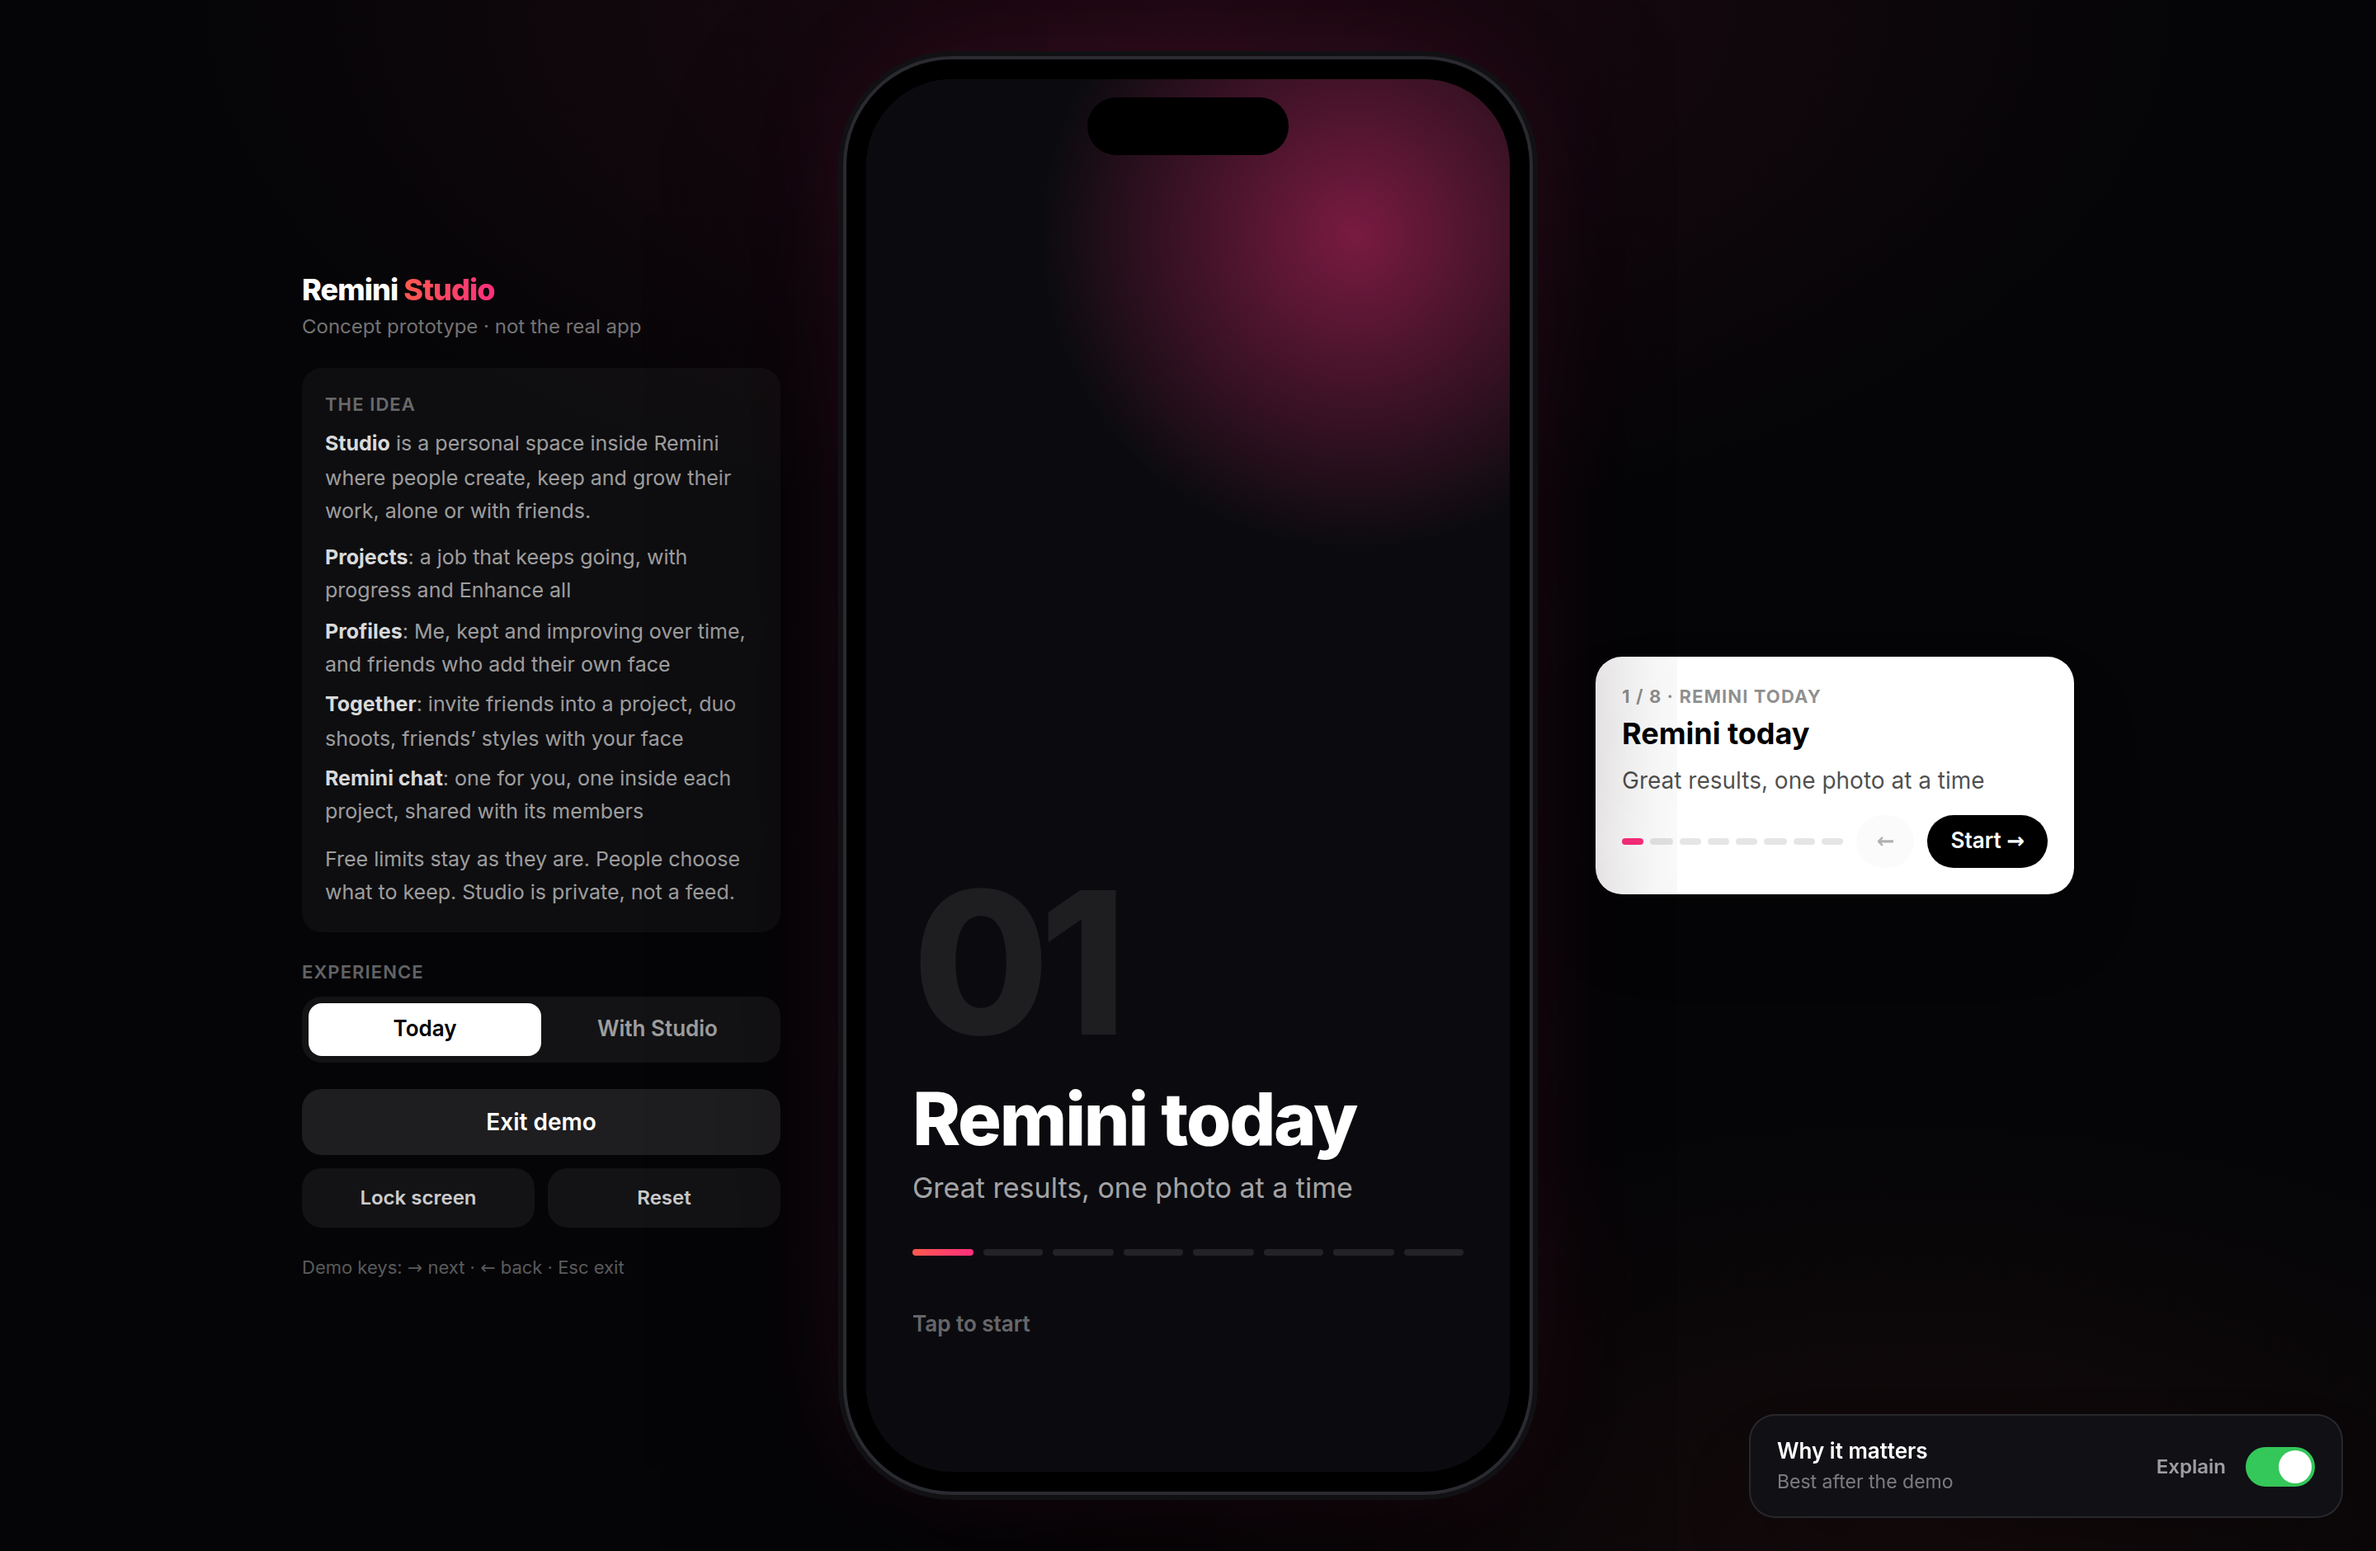
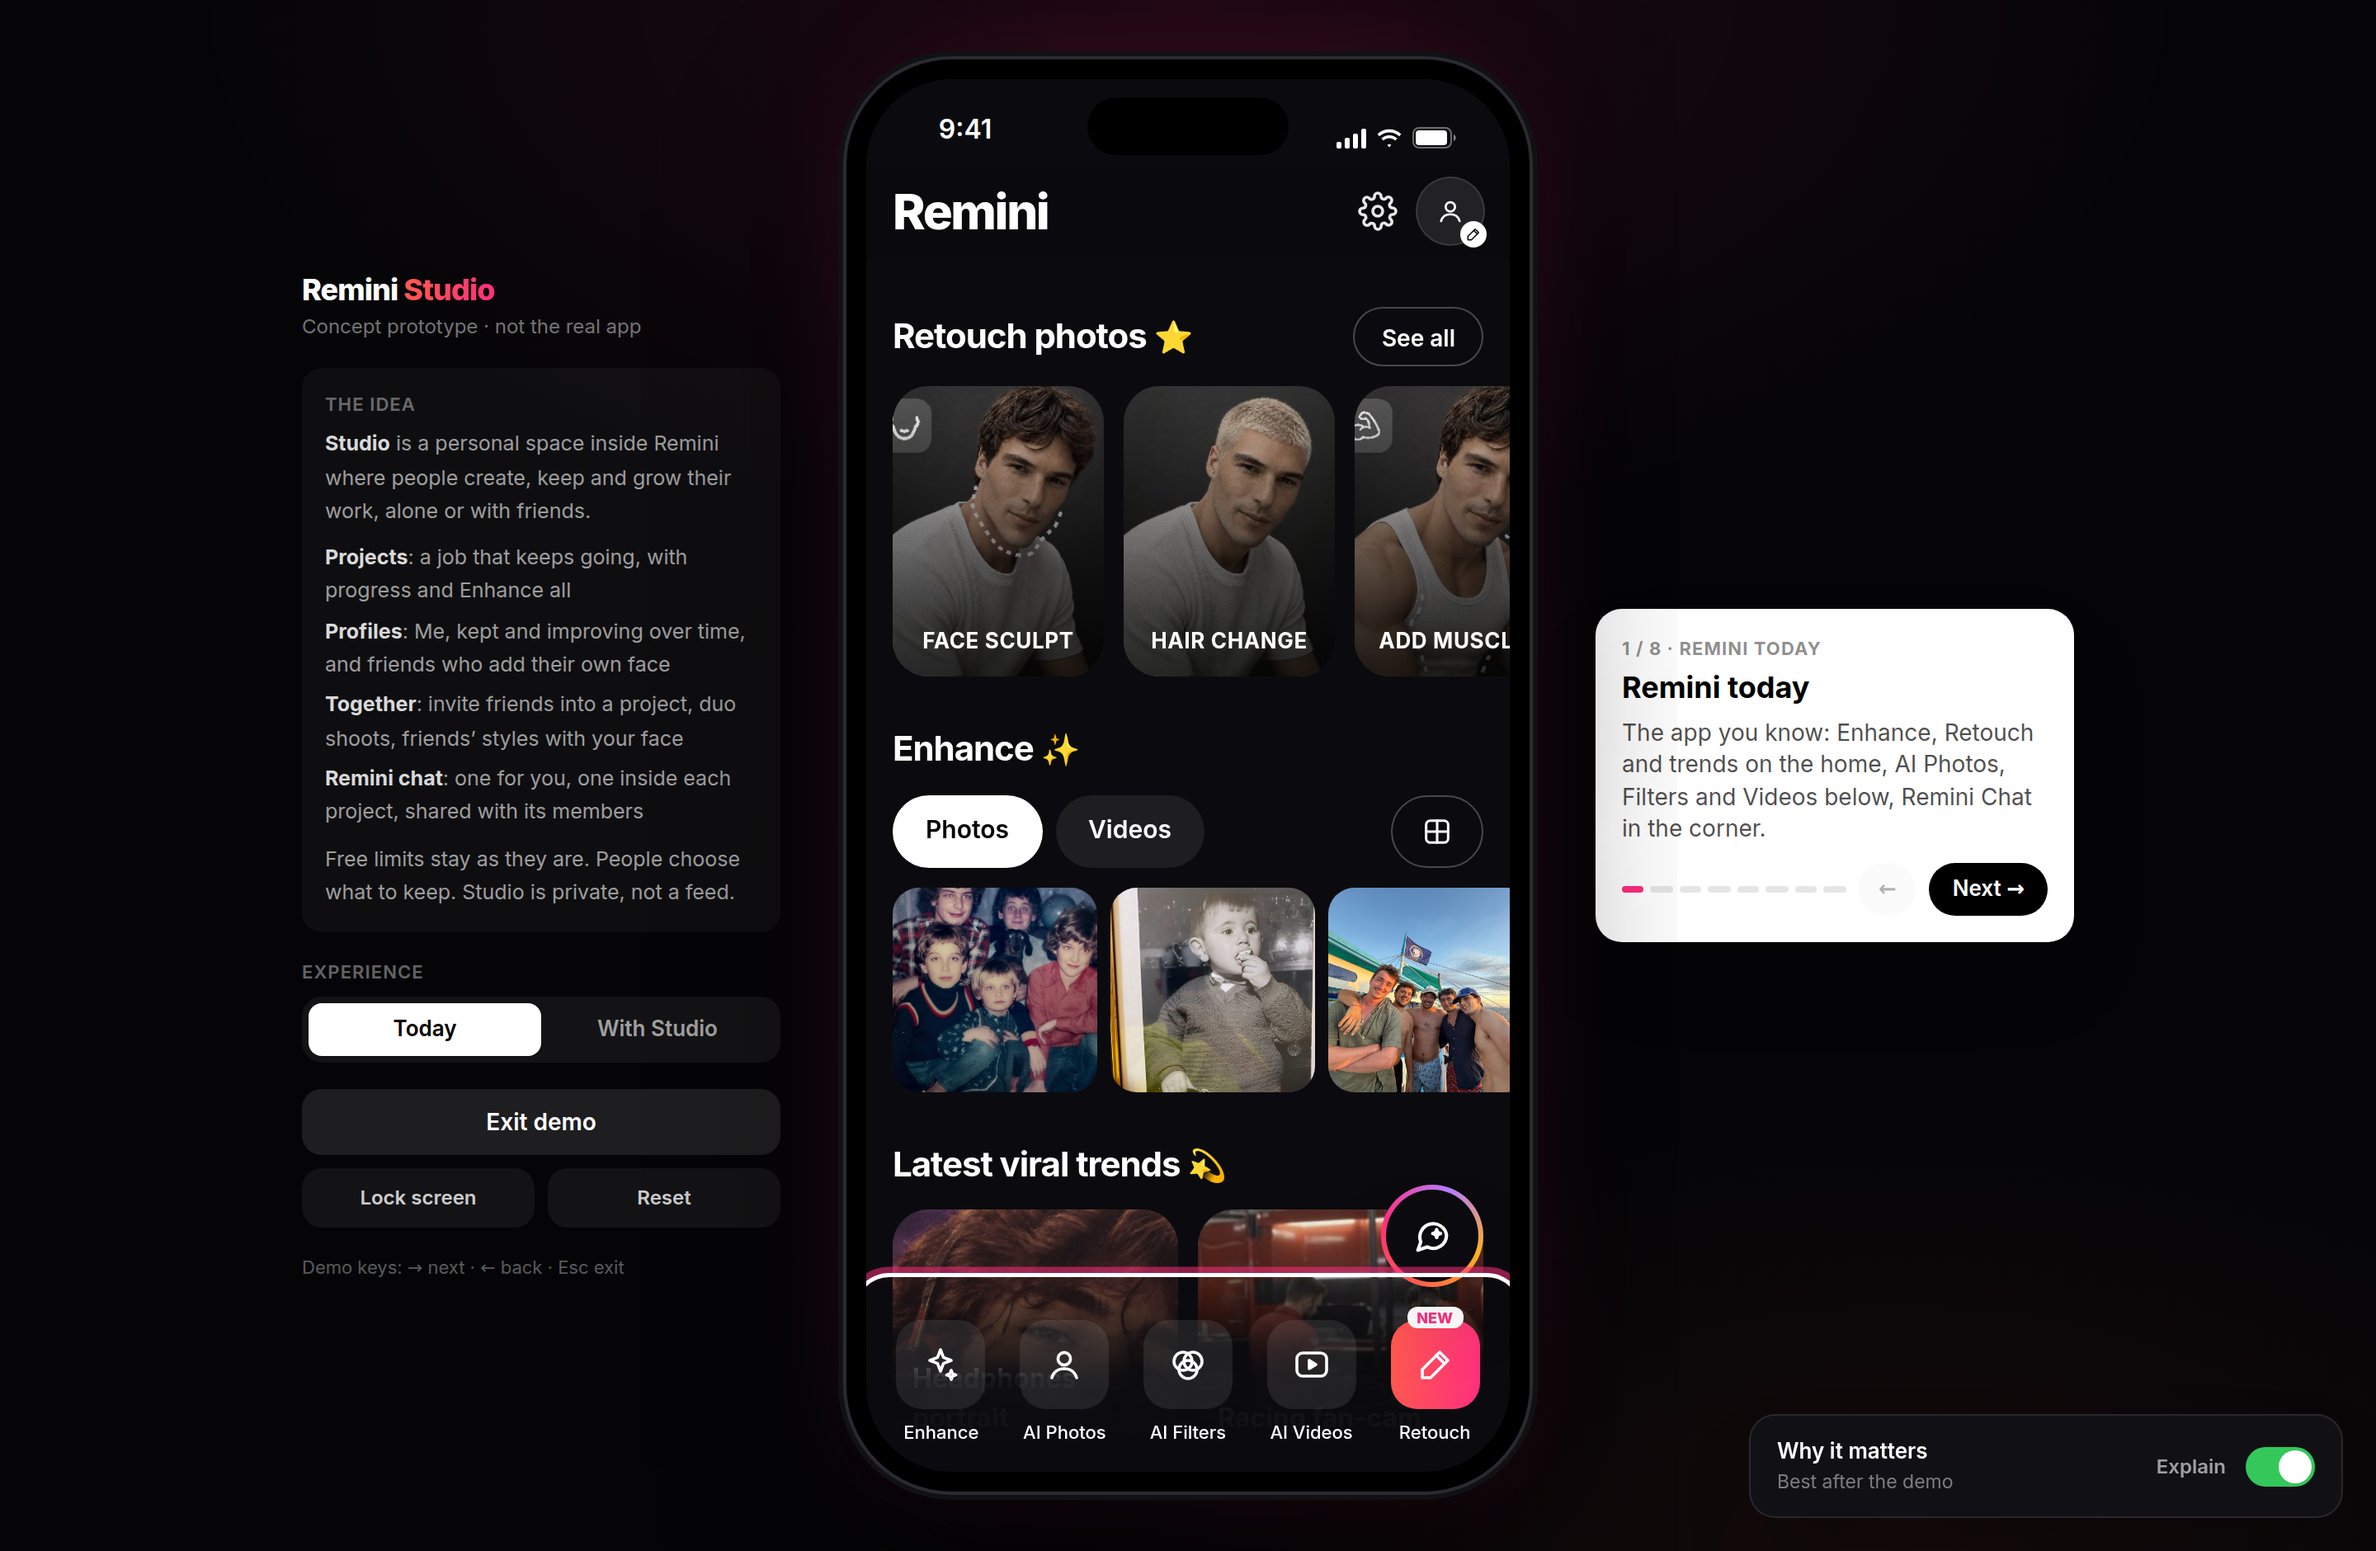
Cleaner demo transitions: chapter cards only for Projects, Profiles and Together
- Cards without numbers, only for the three pillars
- Demo jumps fade in instead of sliding
- Highlight ring waits for the screen to settle, scrolls early, and leaves instantly
- No ring while a chapter card is up

Claude-Session: https://claude.ai/code/session_016rhZVuvannS9NXSxxpYwsv

Changed region(s): [[0.375, 0.0309, 0.875, 0.9255]]

diff --git a/src/components/Overlays.tsx b/src/components/Overlays.tsx
@@ -99,22 +99,25 @@ export function Toast() {
   );
 }
 
-/** Pulsing ring around the element marked `data-demo=<target>`, used by the guided demo. */
+/**
+ * Pulsing ring around the element marked `data-demo=<target>`, used by the guided demo.
+ * It waits for the screen to settle (layers fading in, sheets sliding up) before it
+ * appears, then only follows real movement, so it never flies across the phone.
+ */
 export function Spotlight({ target, root }: { target: string | null; root: RefObject<HTMLDivElement> }) {
   const [rect, setRect] = useState<{ x: number; y: number; w: number; h: number } | null>(null);
 
   useLayoutEffect(() => {
-    if (!target) {
-      setRect(null);
-      return;
-    }
+    setRect(null);
+    if (!target) return;
     let scrolled = false;
+    let last: { x: number; y: number; w: number; h: number } | null = null;
     const measure = () => {
       const r = root.current;
       // Only elements on the visible screen (hidden stack layers keep theirs mounted).
       const all = Array.from(r?.querySelectorAll<HTMLElement>(`[data-demo="${target}"]`) ?? []).filter((e) => e.getClientRects().length > 0);
       const el = all.length ? all[all.length - 1] : null;
-      if (!r || !el) return setRect(null);
+      if (!r || !el) return;
       if (!scrolled) {
         scrolled = true;
         // Scroll only the app's own scroll containers, never the phone frame.
@@ -128,26 +131,42 @@ export function Spotlight({ target, root }: { target: string | null; root: RefOb
           const d = el.getBoundingClientRect().left - h.getBoundingClientRect().left;
           if (d < 0 || d + el.offsetWidth > h.clientWidth) h.scrollLeft += d - 16;
         }
+        return; // measure after the scroll has applied
       }
       const a = r.getBoundingClientRect();
       const b = el.getBoundingClientRect();
       const scale = a.width / r.offsetWidth || 1;
-      setRect({ x: (b.left - a.left) / scale, y: (b.top - a.top) / scale, w: b.width / scale, h: b.height / scale });
+      const next = { x: (b.left - a.left) / scale, y: (b.top - a.top) / scale, w: b.width / scale, h: b.height / scale };
+      if (last && Math.abs(last.x - next.x) < 2 && Math.abs(last.y - next.y) < 2 && Math.abs(last.w - next.w) < 2 && Math.abs(last.h - next.h) < 2) return;
+      last = next;
+      setRect(next);
     };
-    measure();
-    const t = window.setInterval(measure, 150);
-    return () => clearInterval(t);
+    // Scroll to the element right away, while the screen is still fading in; show the ring once it has settled.
+    const early = [0, 60, 160].map((ms) => window.setTimeout(() => !scrolled && measure(), ms));
+    let t = 0;
+    const start = window.setTimeout(() => {
+      measure();
+      measure();
+      t = window.setInterval(measure, 200);
+    }, 520);
+    return () => {
+      early.forEach(clearTimeout);
+      clearTimeout(start);
+      clearInterval(t);
+    };
   }, [target, root]);
 
   return (
     <AnimatePresence>
-      {rect && (
+      {rect && target && (
         <motion.div
+          key={target}
           className="pointer-events-none absolute z-[80] rounded-[20px]"
+          style={{ left: rect.x - 6, top: rect.y - 6, width: rect.w + 12, height: rect.h + 12 }}
           initial={{ opacity: 0 }}
-          animate={{ opacity: 1, left: rect.x - 6, top: rect.y - 6, width: rect.w + 12, height: rect.h + 12 }}
-          exit={{ opacity: 0 }}
-          transition={{ type: 'spring', stiffness: 300, damping: 30 }}
+          animate={{ opacity: 1 }}
+          exit={{ opacity: 0, transition: { duration: 0 } }}
+          transition={{ duration: 0.25 }}
         >
           <div className="spot-ring absolute inset-0 rounded-[20px]" />
         </motion.div>

diff --git a/src/App.tsx b/src/App.tsx
@@ -136,7 +136,9 @@ function PhoneContent() {
   );
 }
 
-/** A full-screen chapter card on the phone when the demo enters a new section. It stays until Next, → or a tap. */
+const PILLARS = CHAPTERS.filter((c) => c.card);
+
+/** A full-screen card on the phone when the demo reaches one of Studio's three pillars. It stays until Next, → or a tap. */
 function ChapterCard() {
   const { chapterCard: show, setChapterCard } = useStore();
   const ch = show ? CHAPTERS[show - 1] : null;
@@ -151,21 +153,21 @@ function ChapterCard() {
           initial={{ opacity: 0 }}
           animate={{ opacity: 1 }}
           exit={{ opacity: 0 }}
-          transition={{ duration: 0.3 }}
+          transition={{ duration: 0.35, ease: 'easeOut' }}
         >
           <div className="absolute -right-24 -top-24 h-[380px] w-[380px] rounded-full bg-[radial-gradient(closest-side,rgba(255,46,126,0.45),transparent)]" />
-          <motion.div initial={{ y: 24, opacity: 0 }} animate={{ y: 0, opacity: 1 }} transition={{ delay: 0.05, duration: 0.45 }} className="relative w-full">
-            <div className="text-[120px] font-extrabold leading-none tracking-tighter text-white/[0.08]">{String(show).padStart(2, '0')}</div>
-            {ch.isNew && <span className="rounded-md bg-brand px-2 py-[2px] text-[11px] font-extrabold tracking-wider">NEW WITH STUDIO</span>}
-            <div className="mt-3 text-[44px] font-extrabold leading-[1.02] tracking-tight">{ch.name}</div>
+          <div className="relative w-full">
+            <span className="rounded-md bg-brand px-2 py-[2px] text-[11px] font-extrabold tracking-wider">NEW WITH STUDIO</span>
+            <div className="mt-3 text-[48px] font-extrabold leading-[1.02] tracking-tight">{ch.name}</div>
             <div className="mt-2 text-[17px] leading-snug text-white/65">{ch.tagline}</div>
-            <div className="mt-6 flex gap-1.5">
-              {CHAPTERS.map((_, i) => (
-                <span key={i} className={`h-1 flex-1 rounded-full ${i + 1 < (show ?? 0) ? 'bg-white/40' : i + 1 === show ? 'bg-brand' : 'bg-white/10'}`} />
+            <div className="mt-8 flex gap-4 text-[13px] font-semibold">
+              {PILLARS.map((p) => (
+                <span key={p.name} className={p.name === ch.name ? 'text-white' : 'text-white/30'}>
+                  {p.name}
+                </span>
               ))}
             </div>
-            <div className="mt-8 text-[13px] font-semibold text-white/40">Tap to start</div>
-          </motion.div>
+          </div>
         </motion.button>
       )}
     </AnimatePresence>
@@ -173,7 +175,7 @@ function ChapterCard() {
 }
 
 export function Phone() {
-  const { demo } = useStore();
+  const { demo, chapterCard } = useStore();
   const root = useRef<HTMLDivElement>(null);
   const [scale, setScale] = useState(1);
 
@@ -184,7 +186,8 @@ export function Phone() {
     return () => window.removeEventListener('resize', fit);
   }, []);
 
-  const target = demo !== null ? BEATS[demo]?.target ?? null : null;
+  // No highlight while a chapter card covers the screen.
+  const target = demo !== null && chapterCard === null ? BEATS[demo]?.target ?? null : null;
 
   return (
     <div className="phone-slot" style={{ ['--s' as string]: scale }}>

diff --git a/src/state/demo.ts b/src/state/demo.ts
@@ -19,7 +19,8 @@ function scene(s: Store, mode: Mode, stage: Stage, routes: Route[] = []) {
   s.setStage(stage);
   if (s.mode !== mode) s.setMode(mode);
   s.goTab(mode === 'studio' ? 'studio' : 'enhance');
-  s.resetStack(routes);
+  // Demo jumps fade in rather than slide, so nothing flies across the screen.
+  s.resetStack(routes, -1);
 }
 
 const first: Route = { name: 'result', kind: 'enhance', title: 'Restored', image: A.restored(3), before: A.old(3) };
@@ -31,13 +32,14 @@ const remix: Route = { name: 'result', kind: 'remix', image: A.remix90s, title: 
 const duo: Route = { name: 'result', kind: 'together', image: A.together90s, title: `You & ${FRIEND}`, projectId: 'eighties' };
 
 /** The chapters follow the idea: what's new, then Projects, Profiles, Together and Remini chat. */
-export const CHAPTERS: { name: string; tagline: string; isNew?: boolean }[] = [
+/** Only the three pillars (card: true) get a chapter card on the phone. */
+export const CHAPTERS: { name: string; tagline: string; isNew?: boolean; card?: boolean }[] = [
   { name: 'Remini today', tagline: 'Great results, one photo at a time' },
   { name: 'Keep', tagline: 'One new button', isNew: true },
   { name: 'Meet Studio', tagline: 'Where kept photos live and keep going', isNew: true },
-  { name: 'Projects', tagline: 'A job bigger than one edit', isNew: true },
-  { name: 'Profiles', tagline: 'Your face, saved once, getting better', isNew: true },
-  { name: 'Together', tagline: 'Projects with the people in them', isNew: true },
+  { name: 'Projects', tagline: 'A job bigger than one edit', isNew: true, card: true },
+  { name: 'Profiles', tagline: 'Your face, saved once, getting better', isNew: true, card: true },
+  { name: 'Together', tagline: 'Projects with the people in them', isNew: true, card: true },
   { name: 'Remini chat', tagline: 'One chat per project', isNew: true },
   { name: 'Coming back', tagline: 'Three weeks later, still on Pro' },
 ];

diff --git a/src/shell/Shell.tsx b/src/shell/Shell.tsx
@@ -261,7 +261,7 @@ function useDemoDriver() {
     const was = prev.current;
     // Moving forward into a new chapter shows its card first; going back never does.
     if (demo === null) setChapterCard(null);
-    else if (was === null || (demo > was && BEATS[was]?.step !== BEATS[demo].step)) setChapterCard(BEATS[demo].step);
+    else if ((was === null || (demo > was && BEATS[was]?.step !== BEATS[demo].step)) && CHAPTERS[BEATS[demo].step - 1].card) setChapterCard(BEATS[demo].step);
     else setChapterCard(null);
     if (demo === null && prev.current === BEATS.length - 1) {
       setLastDemoDone(true);
